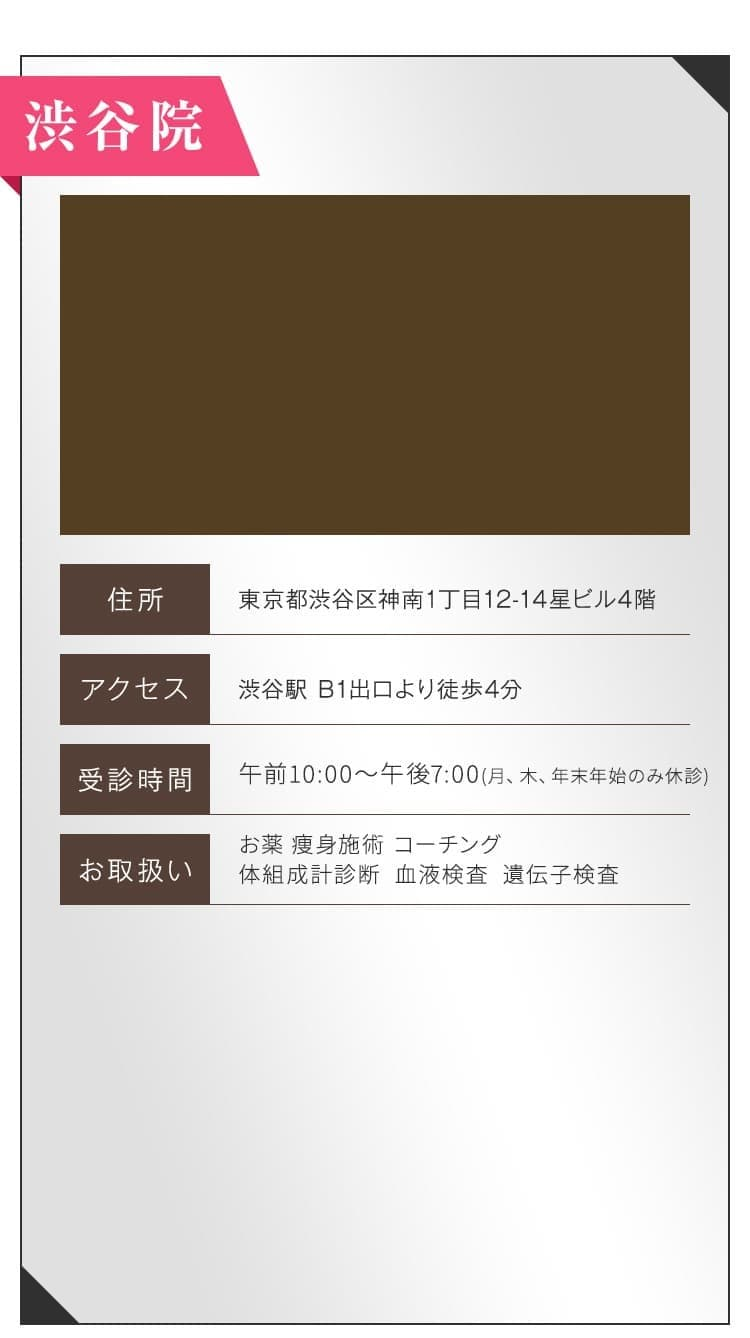
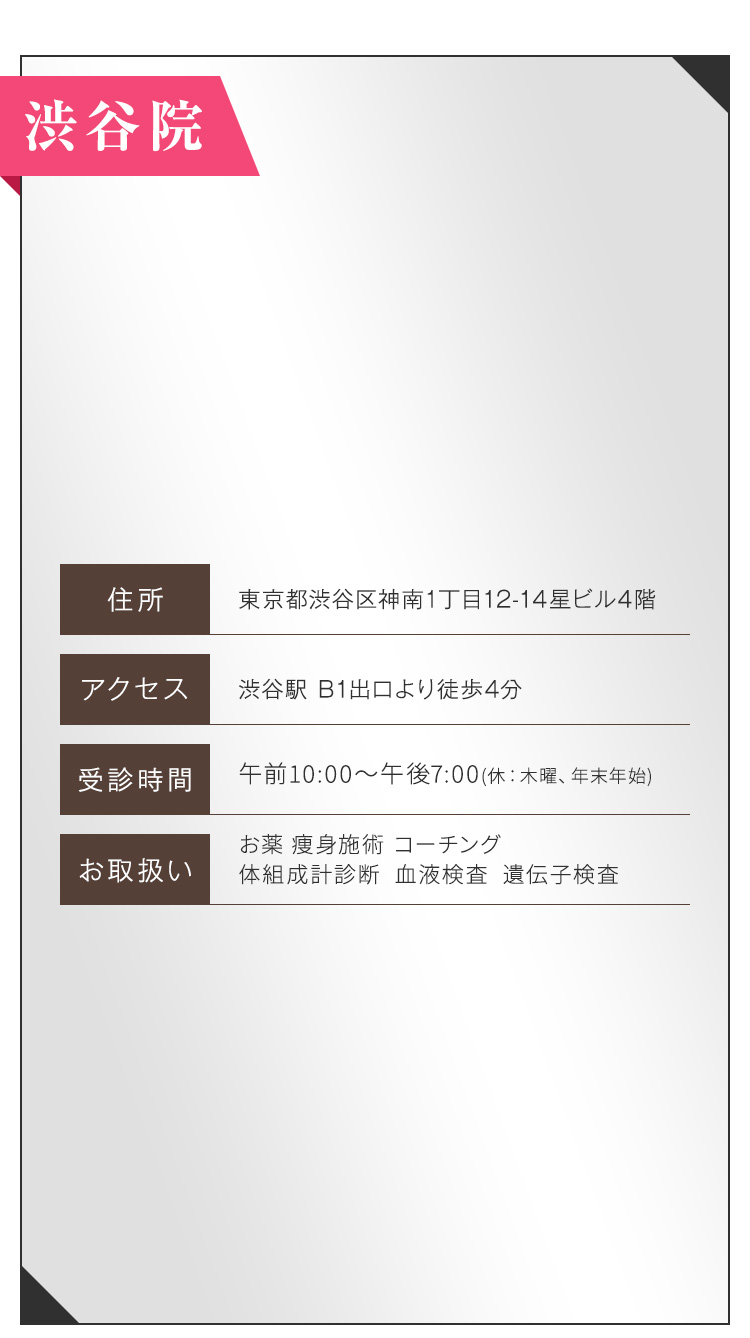
ヘッダーの遷移先調整

diff --git a/api/a.php b/api/a.php
@@ -45,9 +45,9 @@
   <!-- End Google Tag Manager (noscript) -->
 <div id="lpbox">
   <div id="top_floating_banner">
-    <a href="/">
+    <span>
       <img src="img/top_button_01.jpg" alt="FIRE CLINIC" width="191" height="77" loading="lazy">
-    </a>
+    </span>
     <div>
       <span class="cta__popup">
         <img src="img/top_button_02.jpg" alt="無料カウンセリング予約" width="191" height="77" loading="lazy">
@@ -457,7 +457,7 @@
   <div class="shop-panel">
     <p>
       <picture>
-        <source type="image/webp" srcset="img/webp/07_access_shibuya_short.webp?220423"><img src="img/07_access_shibuya_short.jpg?220423" alt="FIRE CLINIC-ファイヤークリニック-　渋谷院">
+        <img src="img/07_access_shibuya_short.jpg" alt="FIRE CLINIC-ファイヤークリニック-　渋谷院">
       </picture>
     </p>
     <div class="shop-photo">
@@ -624,7 +624,7 @@
   <div class="shop-panel">
     <p>
       <picture>
-        <source type="image/webp" srcset="img/webp/07_access_shibuya_short.webp?220423"><img src="img/07_access_shibuya_short.jpg?220423" alt="FIRE CLINIC-ファイヤークリニック-　渋谷院">
+        <img src="img/07_access_shibuya_short.jpg" alt="FIRE CLINIC-ファイヤークリニック-　渋谷院">
       </picture>
     </p>
     <div class="shop-photo">
@@ -749,11 +749,6 @@
 </div>
 
 <div class="modal" id="cta-popup">
-  <div class="yoyaku">
-    <div class="counseling">無料カウンセリング</div>
-    <a class="yoyaku-btn margin" href="https://www.fire-method.com/reservation/" target="_blank" rel="noreferrer">予約へすすむ</a>
-  </div>
-
   <p>
     <picture>
       <source type="image/webp" srcset="img/webp/popup_01.webp?220621"><img src="img/popup_01.jpg?220621" alt="無料カウンセリングはどんな疑問が解消できる?">
